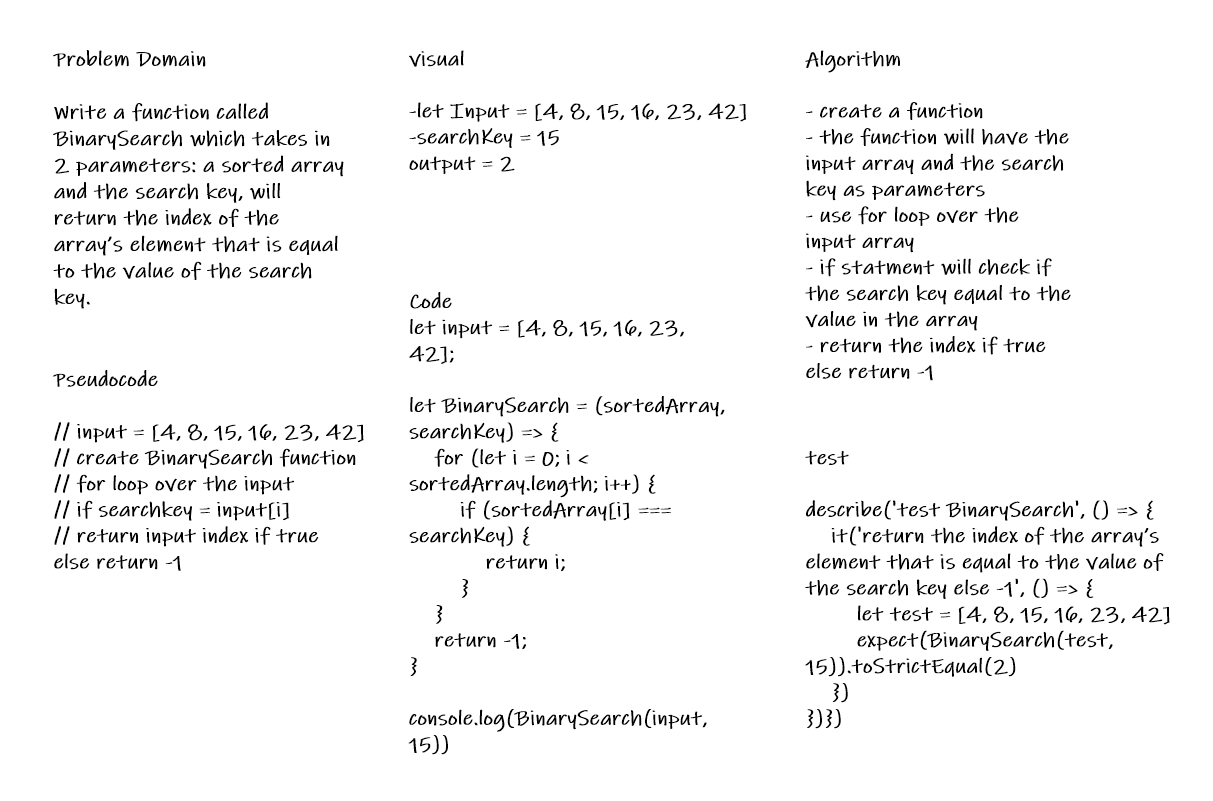
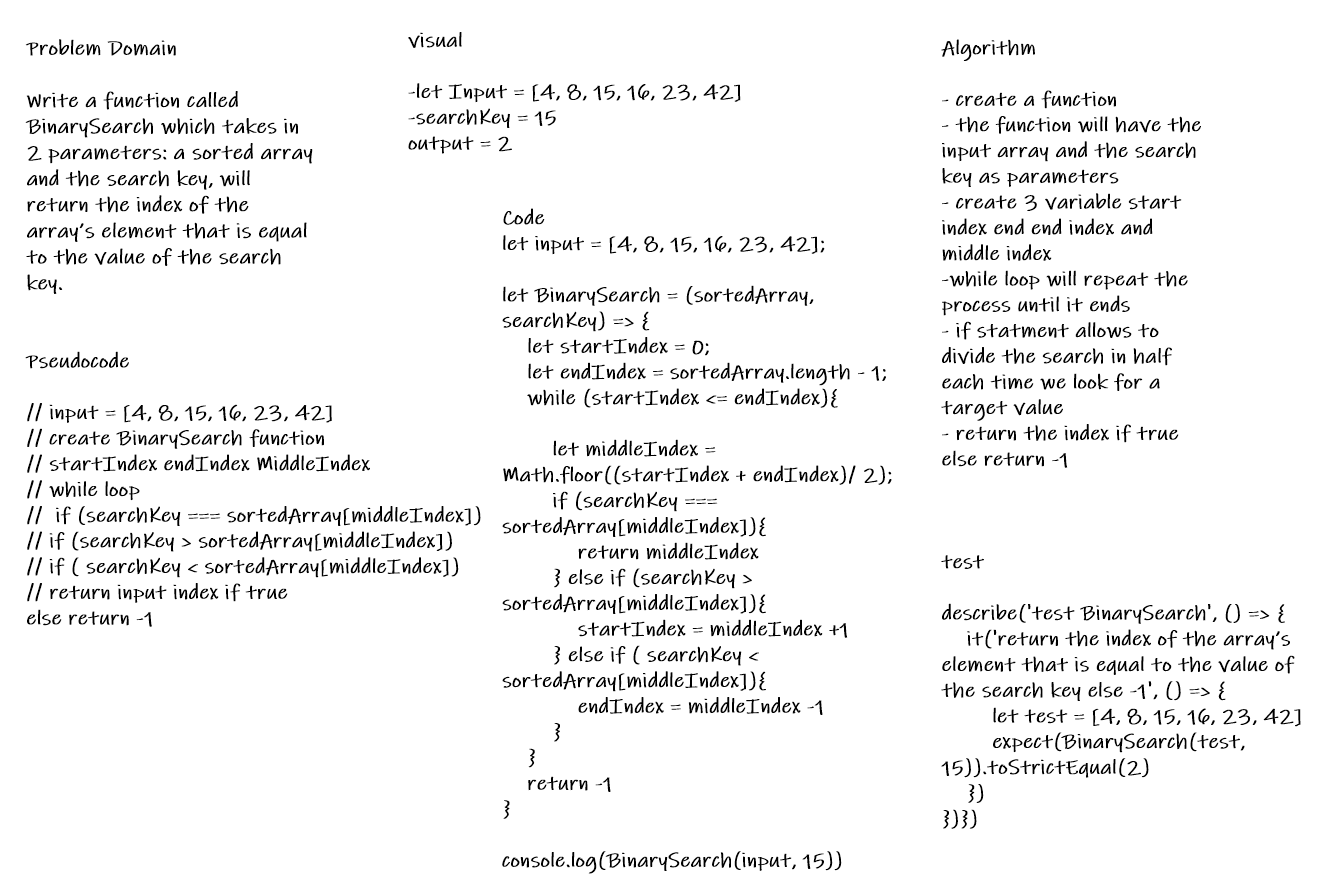
update class-03

diff --git a/code-challenges/array-binary-search/array-binary-search.js b/code-challenges/array-binary-search/array-binary-search.js
@@ -3,15 +3,25 @@
 let input = [4, 8, 15, 16, 23, 42];
 let input2 = [-131, -82, 0, 27, 42, 68, 179]
 let input3 = [11, 22, 33, 44, 55, 66, 77]
+let input4 = [1, 2, 3, 5, 6, 7]
 
 
 let BinarySearch = (sortedArray, searchKey) => {
-    for (let i = 0; i < sortedArray.length; i++) {
-        if (sortedArray[i] === searchKey) {
-            return i;
+    let startIndex = 0;
+    let endIndex = sortedArray.length - 1;
+    while (startIndex <= endIndex){
+
+        let middleIndex = Math.floor((startIndex + endIndex)/ 2);
+        // console.log(middleIndex);
+        if (searchKey === sortedArray[middleIndex]){
+            return middleIndex
+        } else if (searchKey > sortedArray[middleIndex]){
+            startIndex = middleIndex +1
+        } else if ( searchKey < sortedArray[middleIndex]){
+            endIndex = middleIndex -1
         }
     }
-    return -1;
+    return -1
 }
 
 
@@ -22,5 +32,7 @@ console.log(BinarySearch(input, 15));
 console.log(BinarySearch(input2, 42));
 
 console.log(BinarySearch(input3, 90));
+
+console.log(BinarySearch(input4, 4));
 
 module.exports = BinarySearch

diff --git a/code-challenges/array-binary-search/array-binary-search.test.js b/code-challenges/array-binary-search/array-binary-search.test.js
@@ -8,9 +8,11 @@ describe('test BinarySearch', () => {
     it('return the index of the array’s element that is equal to the value of the search key else -1', () => {
         let test1 = [4, 8, 15, 16, 23, 42]
         let test2 = [-131, -82, 0, 27, 42, 68, 179]
-        let test3 =  [11, 22, 33, 44, 55, 66, 77]
+        let test3 = [11, 22, 33, 44, 55, 66, 77]
+        let test4 = [1, 2, 3, 5, 6, 7]
         expect(BinarySearch(test1, 15)).toStrictEqual(2)
         expect(BinarySearch(test2, 42)).toStrictEqual(4)
         expect(BinarySearch(test3, 90)).toStrictEqual(-1)
+        expect(BinarySearch(test4, 4)).toStrictEqual(-1)
     })
 })

diff --git a/code-challenges/array-binary-search/README.md b/code-challenges/array-binary-search/README.md
@@ -8,6 +8,6 @@
 
 ## Approach & Efficiency
 
-* for loop over the input to check
+* while loop will repeat the process until it ends
 
-* if statment will check if the search key equal to the value in the array
+* if statment allows to divide the search in half each time we look for a target value
